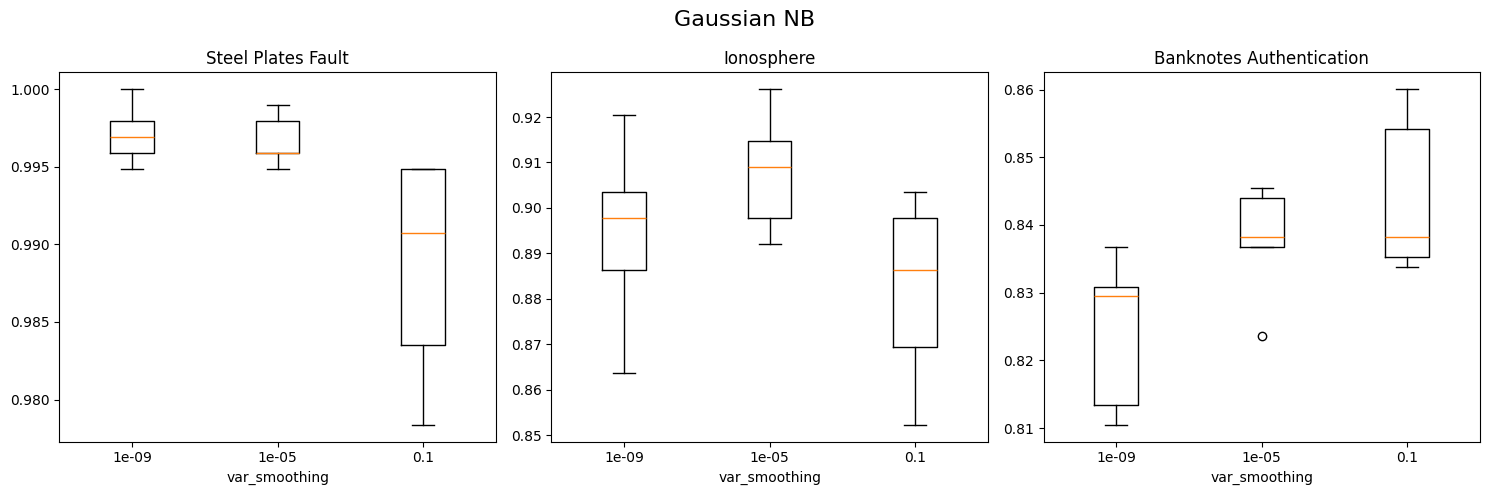
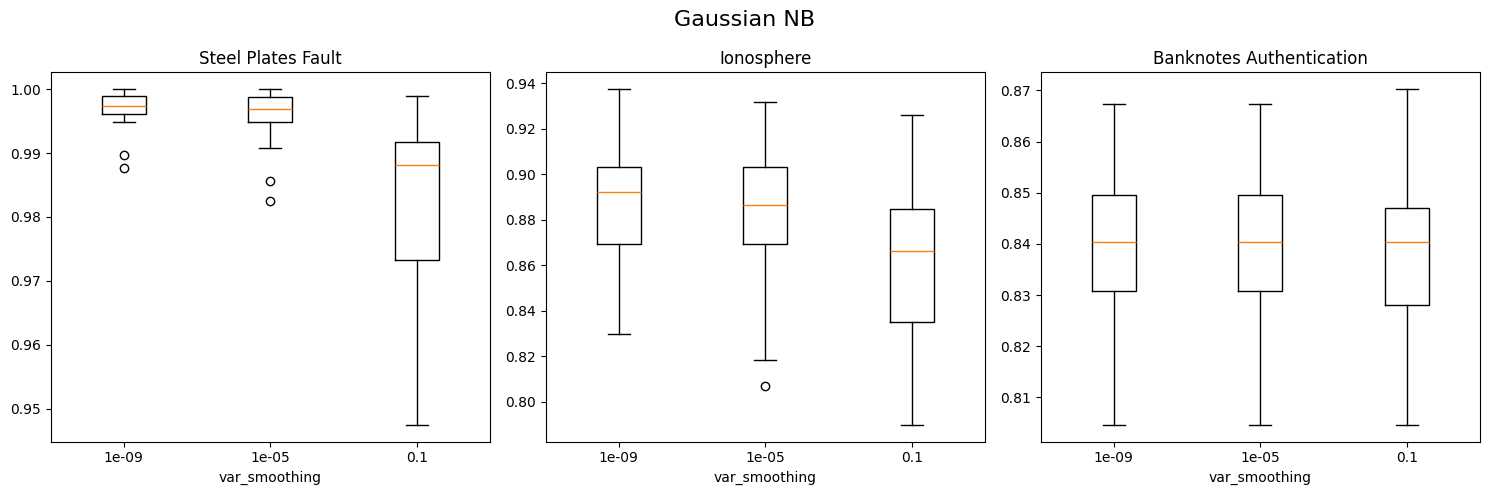
clustering

diff --git a/main.py b/main.py
@@ -15,129 +15,144 @@ from tqdm import tqdm
 import numpy as np
 import pandas as pd
 
-def calculate_accuracy(predictions: pd.DataFrame, test_classes:pd.Series) -> float:
-    # Find num of correct between prediction and y_test
+def calculate_accuracy(predictions: pd.DataFrame, test_classes: pd.Series) -> float:
+    # Find number of correct predictions
     count = 0
-    test_classes.reset_index(drop=True,inplace=True)
-    for i in range(0,predictions.size):
+    test_classes.reset_index(drop=True, inplace=True)
+    for i in range(predictions.size):
         if predictions[i] == test_classes[i]:
             count += 1
+    return count / predictions.size
 
-    return count/predictions.size
-
-def load(path:str):
+def load(path: str):
     data, meta = arff.loadarff(path)
     dataframe = pd.DataFrame(data)
 
-    # [initial row:ending row, initial column:ending column]
-    features = dataframe.iloc[:,:-1]
-    classes = dataframe.iloc[:,-1] # '-1' == series, '-1:' == datafame
+    features = dataframe.iloc[:, :-1]
+    classes = dataframe.iloc[:, -1]
 
-    # convert to string if they're byte strings 
-    classes = classes.apply(lambda x: x.decode('utf-8') if isinstance(x,bytes) else x)
+    # Convert byte strings to strings
+    classes = classes.apply(lambda x: x.decode('utf-8') if isinstance(x, bytes) else x)
 
-    ## SCALEEEEE
+    # Scale features
     scaler = StandardScaler()
     features = scaler.fit_transform(features)
 
     return features, classes
 
-
 def run_classifier(classifier, path, param, state):
     features, classes = load(path)
-    X_train, X_test, y_train, y_test = train_test_split(features, classes, test_size=0.5,random_state=state)
-    clf = classifier(**param) ## wat does ** do????
+    X_train, X_test, y_train, y_test = train_test_split(features, classes, test_size=0.5, random_state=state)
+    clf = classifier(**param)
     clf.fit(X_train, y_train)
     return calculate_accuracy(clf.predict(X_test), y_test)
-
 
 def run_experiment(classifier, params, datasets, repeat_amount):
     results = {dataset[0]: [[] for _ in params] for dataset in datasets}
 
     for i, param in enumerate(params):
         for dataset in datasets:
-            for _ in range(repeat_amount):
-                accuracy = run_classifier(classifier,dataset[1], param, np.random.randint(0,1000))
+            for s in range(repeat_amount):
+                accuracy = run_classifier(classifier, dataset[1], param, s)
                 results[dataset[0]][i].append(accuracy)
     return results
 
-def plot_results(results, titles, x_ticks, window_title,param_name):
-    fig, axes = plt.subplots(1,3,figsize=(15,5))
+def plot_results(results, titles, x_ticks, window_title, param_name):
+    fig, axes = plt.subplots(1, 3, figsize=(15, 5))
 
     for ax, (title, dataset_results) in zip(axes, results.items()):
         ax.boxplot(dataset_results)
         ax.set_title(title)
         
-        # Explicitly set tick locations to match the number of tick labels
         tick_positions = range(1, len(x_ticks) + 1)
         ax.set_xticks(tick_positions)
-        ax.set_xticklabels([f"{p}" for p in x_ticks]) 
+        ax.set_xticklabels([f"{p}" for p in x_ticks])
         ax.set_xlabel(param_name)
 
     fig.suptitle(window_title, fontsize=16)
     plt.tight_layout()
-
     plt.savefig(f"results/{window_title.replace(' ', '_')}.png", bbox_inches='tight')
 
+def get_lowest_mean_values(results):
+    lowest_means = {}
+    for classifier_name, datasets in results.items():
+        for dataset_name, accuracies in datasets.items():
+            mean_accuracies = [np.mean(acc) for acc in accuracies]
+            max_mean = max(mean_accuracies)
+            max_index = mean_accuracies.index(max_mean)
+            lowest_means[(classifier_name, dataset_name)] = (max_mean, max_index)
+    return lowest_means
 
 def main():
-    np.random.seed(42) # for reproducability
-
     classifiers = {
         "KNN": {
             "classifier": KNeighborsClassifier,
-            "params": [{"n_neighbors": k} for k in [1,2,3,4,5]],
+            "params": [{"n_neighbors": k} for k in [1, 2, 3, 4, 5]],
             "param_name": "n_neighbors"
         },
         "Gaussian NB": {
             "classifier": GaussianNB,
-            "params": [{"var_smoothing": s} for s in [1e-9,1e-5,1e-1]],
+            "params": [{"var_smoothing": s} for s in [1e-9, 1e-5, 1e-1]],
             "param_name": "var_smoothing"
         },
         "Decision Tree": {
             "classifier": DecisionTreeClassifier,
-            "params": [{"max_depth": d} for d in [1,3,5,8,10]],
+            "params": [{"max_depth": d} for d in [1, 3, 5, 8, 10]],
             "param_name": "max_depth"
         },
         "Logistic Regression": {
             "classifier": LogisticRegression,
-            "params": [{"C": c, "max_iter": 5000} for c in [0.1,0.5,1.0,2.0,5.0]],
+            "params": [{"C": c} for c in [0.1, 0.5, 1.0, 2.0, 5.0]],
             "param_name": "C"
         },
         "Gradient Boosting": {
             "classifier": GradientBoostingClassifier,
-            "params": [{"max_depth": d} for d in [1,3,5,8,10]],
+            "params": [{"max_depth": d} for d in [1, 3, 5, 8, 10]],
             "param_name": "max_depth"
         },
         "Random Forest": {
             "classifier": RandomForestClassifier,
-            "params": [{"max_depth": d} for d in [1,3,5,8,10]],
+            "params": [{"max_depth": d} for d in [1, 3, 5, 8, 10]],
             "param_name": "max_depth"
         },
         "MLP": {
             "classifier": MLPClassifier,
-            "params": [{"alpha": a, "max_iter": 1000} for a in [1e-5,1e-3,0.1,10.0]],
+            "params": [{"alpha": a} for a in [1e-5, 1e-3, 0.1, 10.0]],
             "param_name": "alpha"
         }
     }
 
     datasets = [
-        ("Steel Plates Fault","data/steel-plates-fault.arff"),
+        ("Steel Plates Fault", "data/steel-plates-fault.arff"),
         ("Ionosphere", "data/dataset_59_ionosphere.arff"),
-        ("Banknotes Authentication","data/banknote-authentication.arff")
+        ("Banknotes Authentication", "data/banknote-authentication.arff")
     ]
 
-    repeat_amount = 5
+    repeat_amount = 50
+
+    all_results = {}
 
     classifiers_list = list(classifiers.items())
     for i, (name, clf_info) in enumerate(tqdm(classifiers_list, desc="Classifiers")):
         results = run_experiment(clf_info["classifier"], clf_info["params"], datasets, repeat_amount)
+        all_results[name] = results
         plot_results(results, [dataset[0] for dataset in datasets], [list(p.values())[0] for p in clf_info["params"]], name, clf_info["param_name"])
-        tqdm.write(f"Finished {clf_info['classifier']}")
+        tqdm.write(f"Finished {name}")
 
+    lowest_means = get_lowest_mean_values(all_results)
 
-    ##plt.show()
+    table = "| **Classifier**      | Steel Plates | Ionosphere | Banknote auth |\n"
+    table += "| ------------------- | ------------ | ---------- | ------------- |\n"
 
+    for classifier_name in classifiers.keys():
+        row = f"| {classifier_name:<19} |"
+        for dataset_name in ["Steel Plates Fault", "Ionosphere", "Banknotes Authentication"]:
+            mean_value, param_index = lowest_means[(classifier_name, dataset_name)]
+            param_value = list(classifiers[classifier_name]["params"][param_index].values())[0]
+            row += f" {mean_value:.4f} ({param_value}) |"
+        table += row + "\n"
+
+    print(table)
 
 if __name__ == '__main__':
     main()

diff --git a/clustering.py b/clustering.py
@@ -1,0 +1,101 @@
+import matplotlib.pyplot as plt
+import numpy as np
+from sklearn.datasets import make_blobs, make_classification, make_circles
+from sklearn.cluster import KMeans, AffinityPropagation, DBSCAN, AgglomerativeClustering, Birch, MeanShift
+from sklearn.mixture import GaussianMixture
+
+# Seed for reproducibility
+SEED = 42
+
+# Generate datasets
+blobs, _ = make_blobs(n_samples=1000, random_state=SEED)
+classification, _ = make_classification(n_samples=1000, n_features=2, n_informative=2, n_redundant=0, n_clusters_per_class=1, random_state=SEED)
+circles, _ = make_circles(n_samples=1000, noise=0.3, random_state=SEED)
+
+datasets = [("Blobs", blobs), ("Classification", classification), ("Circles", circles)]
+
+# Clustering algorithms
+clustering_algorithms = [
+    ("K-Means", lambda: KMeans(n_clusters=3, random_state=SEED)),
+    ("Affinity Propagation", lambda: AffinityPropagation(random_state=SEED)),
+    ("DBSCAN", lambda: DBSCAN()),
+    ("Gaussian Mixture", lambda: GaussianMixture(n_components=3, random_state=SEED)),
+    ("Birch", lambda: Birch(n_clusters=3)),
+    ("Agglomerative Clustering", lambda: AgglomerativeClustering(n_clusters=3)),
+    ("Mean Shift", lambda: MeanShift())
+]
+
+def fit_clustering_algorithms(clustering_algorithms, datasets):
+    labels = []
+    for _, clustering_function in clustering_algorithms:
+        clusterer_labels = []
+        for _, dataset in datasets:
+            model = clustering_function().fit(dataset)
+            if hasattr(model, "labels_"):
+                cluster_predictions = model.labels_.astype(int)
+            else:
+                cluster_predictions = model.predict(dataset)
+            clusterer_labels.append(cluster_predictions)
+        labels.append(clusterer_labels)
+    return labels
+
+def build_clustering_scatterplots_table(datasets, clustering_labels):
+    fig, axs = plt.subplots(len(clustering_algorithms), len(datasets), figsize=(15, 20))
+
+    for row, (clustering_name, _) in enumerate(clustering_algorithms):
+        clustering_algorithm_labels = clustering_labels[row]
+        for col, (dataset_name, dataset) in enumerate(datasets):
+            cell = axs[row, col]
+            labels = clustering_algorithm_labels[col]
+
+            cell.scatter(dataset[:, 0], dataset[:, 1], c=labels, s=10, cmap='viridis')
+            if col == 0:
+                cell.set_ylabel(clustering_name)
+            if row == 0:
+                cell.set_title(dataset_name)
+
+    plt.tight_layout()
+    plt.savefig("clustering_scatterplots.png", bbox_inches='tight')
+    plt.show()
+
+def analyze_results():
+    analysis = """
+    Comparison and Analysis of Clustering Algorithms on Datasets:
+
+    1. K-Means:
+       - Performs well on spherical clusters.
+       - May struggle with clusters of varying density and non-linear shapes.
+
+    2. Affinity Propagation:
+       - Identifies exemplars rather than centroids.
+       - Handles non-convex shapes well but can be sensitive to preference parameter.
+
+    3. DBSCAN:
+       - Effective for arbitrary-shaped clusters.
+       - Requires careful tuning of eps and min_samples.
+
+    4. Gaussian Mixture Model:
+       - Assumes Gaussian distributions for clusters.
+       - Works well on spherical clusters, less effective on non-linear structures.
+
+    5. BIRCH:
+       - Handles large datasets efficiently.
+       - Performs well on spherical clusters but may struggle with non-linear clusters.
+
+    6. Agglomerative Clustering:
+       - Builds a hierarchy of clusters.
+       - Effective for various shapes, but computationally intensive.
+
+    7. Mean Shift:
+       - Identifies dense regions as clusters.
+       - Effective for various shapes but can be computationally intensive.
+    """
+    print(analysis)
+
+def main():
+    clustering_labels = fit_clustering_algorithms(clustering_algorithms, datasets)
+    build_clustering_scatterplots_table(datasets, clustering_labels)
+    analyze_results()
+
+if __name__ == "__main__":
+    main()

diff --git a/README.md b/README.md
@@ -29,3 +29,16 @@
 | Gradient Boosting | ![Gradient Boosting Plot](results/Gradient_Boosting.png) |
 | Random Forest | ![Random Forest Plot](results/Random_Forest.png) |
 | MLP | ![MLP Plot](results/MLP.png) |
+
+
+
+
+| **Classifier** | **Plot** |
+| --- | --- |
+| KNN | ![KNN Plot](results/KNN.png) |
+| Gaussian NB | ![Gaussian NB Plot](results/Gaussian_NB.png) |
+| Decision Tree | ![Decision Tree Plot](results/Decision_Tree.png) |
+| Logistic Regression | ![Logistic Regression Plot](results/Logistic_Regression.png) |
+| Gradient Boosting | ![Gradient Boosting Plot](results/Gradient_Boosting.png) |
+| Random Forest | ![Random Forest Plot](results/Random_Forest.png) |
+| MLP | ![MLP Plot](results/MLP.png) |
